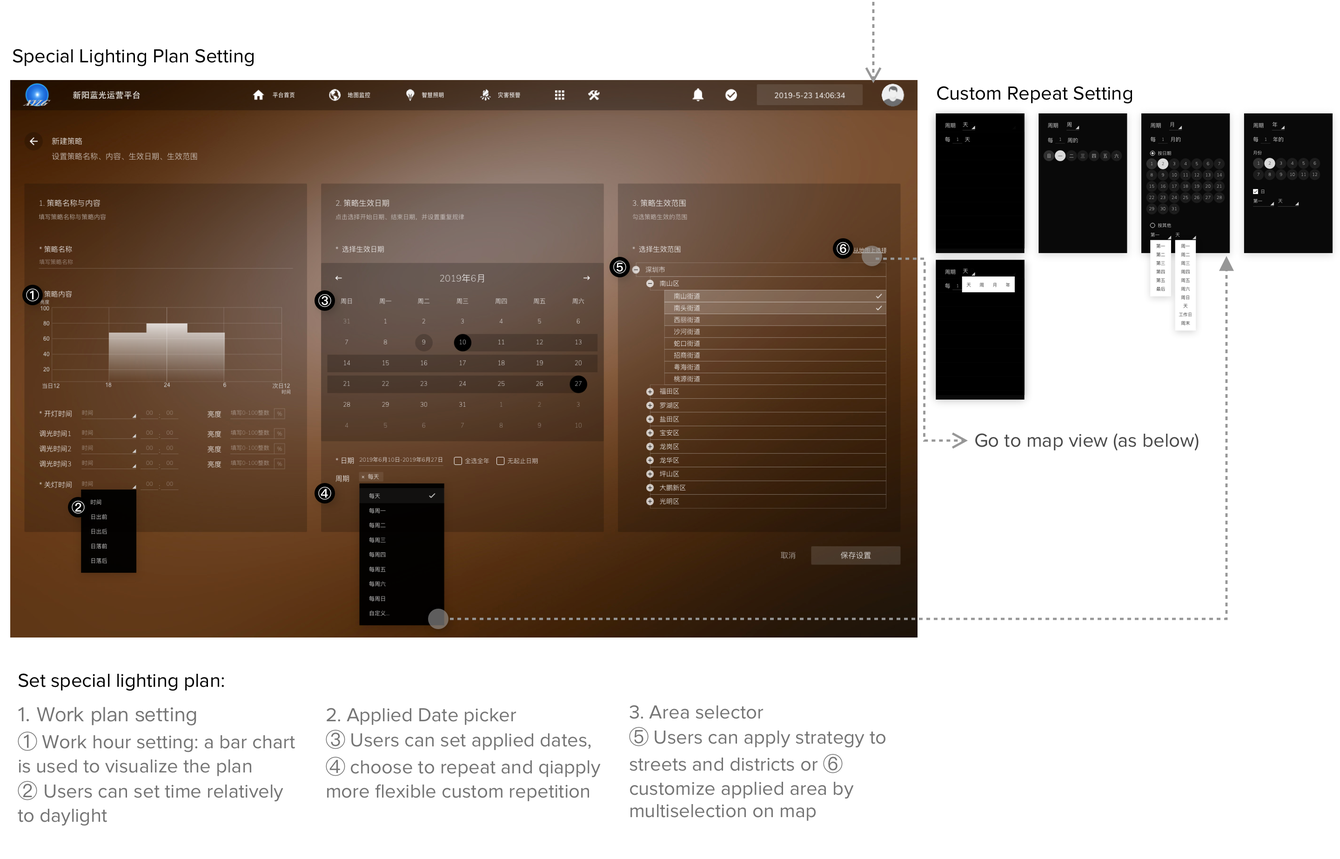
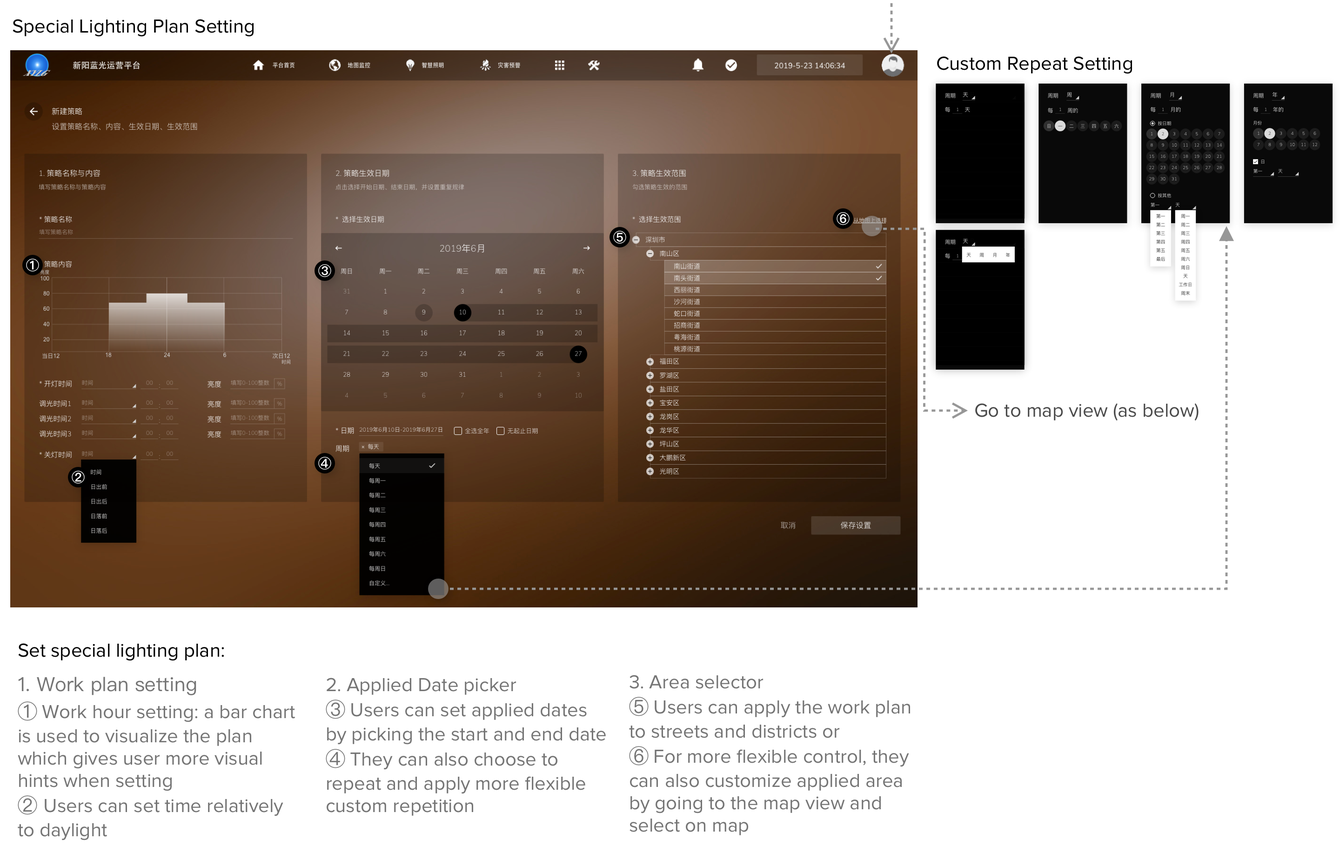
update

diff --git a/src/pages/Designer/IoTBest.js b/src/pages/Designer/IoTBest.js
@@ -154,7 +154,7 @@ class IoTBest extends React.Component {
                     <Col sm={4} md={2}>
 
                         <div className="project_overview_title">My Role</div>
-                        <div className="project_overview_content">Research</div>
+                        <div className="project_overview_content">User Research</div>
                         <div className="project_overview_content">Product Design</div>
                         <div className="project_overview_content">Interaction Design</div>
                         <div className="project_overview_content">Prototyping</div>
@@ -196,7 +196,6 @@ class IoTBest extends React.Component {
                         <div className="project_overview_content py-1"><b>Ideate</b></div>
                         <div className="project_overview_content">Brainstorming</div>
                         <div className="project_overview_content">Sketching</div>
-                        <div className="project_overview_content">Feasibility analysis</div>
                     </Col>
                     <Col xs={4} md={2}>
                         <img src={process.env.PUBLIC_URL + "/images/centerStep.png"} />
@@ -251,8 +250,8 @@ class IoTBest extends React.Component {
                         <section className="project_body" id="intro">
                             <div id="scrollstart"></div>
                             <h2>Problem</h2>
-                            <h5>Lighting infrastructure Administrators were given complex tools to control devices</h5>
-                            <p>Here is the existing management tool for the administrators to control the highway light system. The problems of the tool are obvious:</p>
+                            <h5>Complex tools were used to control street lights</h5>
+                            <p>Here is the existing management tool for the administrators to control the highway lighting system. The problems of the tool are obvious:</p>
                             <ImageZoom
                                 image={{
                                     src: '/images/IoT/existingtool.png',
@@ -280,7 +279,7 @@ class IoTBest extends React.Component {
 
                 <div className="project_separator_inner_wrapper" >
                     <h2>Solution</h2>
-                    <h5>Demos</h5>
+                    <h5>Final Design</h5>
                             <Row>
 
                                 <Col xs={4}>
@@ -359,9 +358,15 @@ class IoTBest extends React.Component {
 
                             <section className="project_body" id="research">
                                 <h2>Research</h2>
-                                <h5>Why and how did administrators control the street lights?</h5>
+                                <h5>Why and how did administrators of lighting infrastructure control the street lights?</h5>
                                 <h6>Research Questions</h6>
-                                <p>To understand the purposes of controlling the street lights and their typical workflows, I advocated strongly conducting user research to my PM. I eventually got the chance to connect with three administrators of the street lighting system and visited their office in person.</p>
+                                <p></p>
+                                <li>How do administrators of city street lighting system work?</li>
+                                <li>What are the purposes for controling the lights?</li>
+                                <li>What problems do they have in the process?</li>
+
+                                <h6>Research Methods</h6>
+                                <p>To understand the purposes of controlling the street lights and an administrator's typical workflows, I conducted contextual inquires with three administrators of the street lighting system. They walked me through their daily work at their office and answered my questions.</p>
                                 <img className="project_illustration_extrasmall" src={process.env.PUBLIC_URL + "/images/IoT/contextual_inquiry.png"} />
                                 <Container>
                                     <Row>
@@ -393,7 +398,7 @@ class IoTBest extends React.Component {
 
                             <section className="project_body" id="syn">
                                 <h2>Synthesize</h2>
-                                <h5>Different scenarios, different workflows, different purposes</h5>
+                                <h5>Different scenarios, different purposes, different workflows, different problems</h5>
                                 <p>From the contextual inquiries, I found that why and how they control the lighting system can be classified into three scenarios that follow different workflows. However, the existing system didn't distinguish these types, let alone supporting their different needs.</p>
                                 <ImageZoom
                                     image={{
@@ -408,7 +413,7 @@ class IoTBest extends React.Component {
                                 <div className="project_quote">
                                     <div className="project_separator_inner_wrapper_small">
 
-                                        <p className="project_quote_text">How might we help administrators configure daily city lighting to achieve energy-saving goals and adjust the lighting on special occasions easily?</p>
+                                        <p className="project_quote_text">How might we help administrators configure daily city lighting to achieve energy-saving goals and adjust the lighting on special occasions or in emergency?</p>
                                     </div>
 
                                 </div>
@@ -418,7 +423,7 @@ class IoTBest extends React.Component {
                             <section className="project_body" id="ideate">
                                 <h2>Ideate</h2>
 
-                                <h5>How might we help administrators to configure city lighting energy-efficiently and adjust lighting for special occasions easily?</h5>
+                                <h5>From problems to solutions</h5>
 
 
                                 <ImageZoom
@@ -441,7 +446,7 @@ class IoTBest extends React.Component {
                             </section>
                             <section className="project_body" id="design">
                                 <h2>Design</h2>
-                                <h5>User flows and Wireframes</h5>
+                                <h5>User flows and wireframes</h5>
 
                                 <p>So I started with mapping the user flows of each scenario and how the new system was going to support each of the steps. I then wireframed the possible interfaces of the system.</p>
                                 <h6>1. Day-to-day plan setup</h6>
@@ -464,12 +469,12 @@ class IoTBest extends React.Component {
                                     }}
 
                                 />
-                                <p>A specific challenge I faced in wireframing the setting interface is how to make the work plan setting interface more intuitive. I wireframed two ways to improve the experience: one is allowing users to click boxes on the bar chart to set luminosity; the other is using simple dropdown and inputs.</p>
+                                <p>A specific challenge I faced in wireframing the setting interface is how to make the work plan setting interface more intuitive and provide users with more visual hints. I wireframed two ways to improve the experience: one is clicking boxes on the bar charts to set time and luminosity; the other using simple dropdown and inputs to select time and enter luminosity.</p>
                                 <ImageZoom
                                     image={{
                                         src: '/images/IoT/workplan.png',
                                         alt: '',
-                                        className: 'project_illustration_medium'
+                                        className: 'project_illustration'
                                     }}
 
 
@@ -486,7 +491,7 @@ class IoTBest extends React.Component {
                                     }}
 
                                 />
-                                <p>Later, when actually wireframing, I realized that the first path, looking for street lights from a map was a lot more complicated than I had thought, especially in the case when users want to control multiple devices. Therefore, I specified the user flow of bulk control:</p>
+                                <p>When actually wireframing, I realized that the first path, looking for street lights from a map was a lot more complicated than I had thought, especially in the case when users want to control multiple devices. Therefore, I specified the user flow of bulk control:</p>
                                 <ImageZoom
                                     image={{
                                         src: '/images/IoT/bulkcontrol/bulkcontrol_userflow.png',
@@ -496,12 +501,12 @@ class IoTBest extends React.Component {
 
                                 />
                                 <div className="project_caption text-center">Specification of the bulk control user flow</div>
-                                <p>Later, I wireframed variations of the interfaces for each step including selecting groups of devices, retrieving and checking selected devices, narrowing down the list for control and getting control feedback.</p>
+                                <p>I later wireframed variations of the interfaces for each step including selecting groups of devices, retrieving and checking selected devices, narrowing down the list for control and getting control feedback.</p>
 
 
                                 {this.state.hide4 ? (<>
                                     <div className="hiden_content_switch_container text-center">
-                                        <button class="uk-button uk-button-secondary uk-width-1-1" onClick={() => this.toggleHiddenContent("hide4")}><span uk-icon="icon: search"></span> Click to See Detailed Exploration </button>
+                                        <button class="uk-button uk-button-secondary uk-width-1-1" onClick={() => this.toggleHiddenContent("hide4")}><span uk-icon="icon: search"></span> Click to See Detailed Exploration of Bulk Control</button>
                                     </div></>) : (<>
                                         <div className="hiden_content_switch_container text-center">
                                             <button class="uk-button uk-button-secondary uk-width-1-1" onClick={() => this.toggleHiddenContent("hide4")}>Hide Detailed Exploration</button>
@@ -509,43 +514,67 @@ class IoTBest extends React.Component {
                                         {/* ----------------hidden 👇---------------------- */}
 
 
-
+                                        <h6>*Bulk control</h6>
                                         <li className="p-list">Select Devices</li>
-                                        <p className="project_info">I ideated four ways to select multiple devices. Since administrators usually control lights by defined areas (administrative divisions), the 'selet-a-area' buttons will be useful for them. Moreover, multi-selection on map is the ideal way to select devices by undefined areas such as a intersection. So I decided to combine these two and used the tree diagram on special light plan set up where administrators want to apply a light plan to large and multiple areas.</p>
+                                        <p className="project_info">I ideated four ways to select multiple devices.</p>
                                         <ImageZoom
                                             image={{
-                                                src: '/images/IoT/bulkcontrol/select.png',
+                                                src: '/images/IoT/bulkcontrol/select1.png',
+                                                alt: '',
+                                                className: 'project_illustration'
+                                            }}
+
+                                        /><ImageZoom
+                                        image={{
+                                            src: '/images/IoT/bulkcontrol/select2.png',
+                                            alt: '',
+                                            className: 'project_illustration'
+                                        }}
+
+                                    />
+                                        <p className="project_info">Since administrators usually control lights by defined areas (administrative divisions), the 'selet-an-area' button is more useful for them. Moreover, multi-selection on map is the ideal way to select devices by undefined areas such as all lights at an intersection. So I decided to combine these two and use the tree diagram on special plan setup where administrators want to apply a light plan to large and multiple areas.</p>
+
+
+
+                                        <li className="p-list">Retrieve Selected Device</li>
+                                        <p className="project_info">One thing that needed to be considered was where the "selected device" button should be located. I wireframed four locations of the button and finally decided to put the button at top since it was the most straightforward version and produced no ambiguity of its scope.</p>
+                                        <ImageZoom
+                                            image={{
+                                                src: '/images/IoT/bulkcontrol/retrieve_button1.png',
                                                 alt: '',
                                                 className: 'project_illustration'
                                             }}
 
                                         />
-
-
-
-                                        <li className="p-list">Retrieve Selected Device</li>
-                                        <p className="project_info">The questions of specifying the information retrieval process existed in where the "selected device" button should locate and where and how to display the selected device.</p>
-                                        <p className="project_info">I wireframed four locations of the button. I finally decided on the last option since it was the most straightforward version and produced no ambiguity of its scope.</p>
                                         <ImageZoom
                                             image={{
-                                                src: '/images/IoT/bulkcontrol/retrieve_button.png',
+                                                src: '/images/IoT/bulkcontrol/retrieve_button2.png',
                                                 alt: '',
                                                 className: 'project_illustration'
                                             }}
 
                                         />
                                         <li className="p-list">Check Selected Device</li>
-                                        <p className="project_info">As for how to display selected devices, I created the following wireframes. We eventually decided to send users to a new page once user click 'view selected device' button on top to give more space for information display so that users can clearly check what are selected. In addition, a grouped table was proved to be the most efficient and clear way to display the selected devices.</p>
+                                        <p className="project_info">As for how to display selected devices, I created the following wireframes.</p>
                                         <ImageZoom
                                             image={{
-                                                src: '/images/IoT/bulkcontrol/retrieve_display.png',
+                                                src: '/images/IoT/bulkcontrol/retrieve_display1.png',
                                                 alt: '',
                                                 className: 'project_illustration'
                                             }}
 
                                         />
+                                        <ImageZoom
+                                            image={{
+                                                src: '/images/IoT/bulkcontrol/retrieve_display2.png',
+                                                alt: '',
+                                                className: 'project_illustration'
+                                            }}
+
+                                        />
+                                        <p className="project_info">I eventually decided to send users to a new page once user click 'view selected device' button on top to give more space for information display so that users can clearly check what are selected. In addition, a grouped table was proved to be the most efficient and clear way to display the selected devices.</p>
                                         <li className="p-list">Apply Advanced Filters</li>
-                                        <p>For selecting street lights on map view, administrators can narrow down the scope by the area and road filters on map. However, they also want to specify types, luminance or other attributes of the lights. To support this, I included advanced filters in the selected device page. The problem is how to display various options and, at the same time, make sure that administrators know what are selected.</p>
+                                        <p>For selecting street lights on map view, administrators can narrow down the scope by the area and street filters on map. However, they still need to narrowed them down by specifying types, luminance or other attributes of the lights. To support this, I included advanced filters in the selected device page. The problem is how to display various options and, at the same time, make sure that administrators know what are selected.</p>
                                         <ImageZoom
                                             image={{
                                                 src: '/images/IoT/bulkcontrol/advancedFilters.png',
@@ -557,7 +586,7 @@ class IoTBest extends React.Component {
                                         <p>The final version was coming from several iterations on how to show options and display applied filters.</p>
 
                                         <li className="p-list">Control Response</li>
-                                        <p className="project_info">The administrators should be careful about adjusting city infrastructure settings. They need to know whether they have changed the setting successfully. Thus, I ideated are two ways of feedback.</p>
+                                        <p className="project_info">The administrators should be careful about adjusting city infrastructure settings. They need to know whether they have changed the setting successfully or not. Thus, I ideated two ways of feedback.</p>
 
                                         <ImageZoom
                                             image={{
@@ -576,9 +605,9 @@ class IoTBest extends React.Component {
                                             }}
 
                                         />
-                                        <li className="project_info">Firstly, an alert will pop up once they apply a new setting asking for confirmation.</li >
+                                        <li className="project_info">Firstly, an alert will pop up once once a control was applied, asking for confirmation.</li >
                                         <li className="project_info">After confirmation, a alert will show up indicating the process and the action button will gray out. </li>
-                                        <li className="project_info">After applying the setting, a clear alert will show the number of successful settings with indicators of error and success on the selected device list to support trouble shooting. The button will then changes into 'redo' that allow users to rerun the action again.</li>
+                                        <li className="project_info">After applying the setting, a clear alert will show the number of successful settings and the indicators of error and success will show up on the selected device list to support trouble shooting. The button will then changes into 'redo' that allow users to rerun the action again to the devices that returned errors.</li>
 
 
 
@@ -587,7 +616,7 @@ class IoTBest extends React.Component {
                                             <button class="uk-button uk-button-secondary uk-width-1-1" onClick={() => this.toggleHiddenContent("hide4")}>Hide Detailed Exploration</button>
                                         </div>
                                     </>)}
-                                <p>Finally, I developed the wireframes for temporary control after the brainstorming:</p>
+                                <p>Finally, I developed the wireframes for temporary control after the brainstorming and critique:</p>
                                 <ImageZoom
                                     image={{
                                         src: '/images/IoT/temporary.png',
@@ -596,18 +625,20 @@ class IoTBest extends React.Component {
                                     }}
 
                                 />
+                                <p>After all these, I created high-fidelity interactive prototypes for the usability testing with users.</p>
                             </section>
                             <section className="project_body" id="evaluate">
                                 <h2>Evaluate</h2>
                                 <h5>Usability Testing & Iterations</h5>
-                                <p>After creating an interactive prototype, I conducted scenario-based usability testing with the administrators (<a href="https://docs.google.com/document/d/1Wzhgqrxo7YtJaYprwnFdA7flDMVM8VVzVDO9i_Pwb1Y/edit?usp=sharing" className="text_link">link of the usability testing tasks</a>). The studies meant to test:</p>
-                                <li>whether the new features are learnable</li>
+                                <p>After creating an interactive prototype, I conducted scenario-based usability testing with 2 administrators and cognitive walkthrough with 3 colleagues (<a href="https://docs.google.com/document/d/1Wzhgqrxo7YtJaYprwnFdA7flDMVM8VVzVDO9i_Pwb1Y/edit?usp=sharing" className="text_link">link of the usability testing tasks</a>). The study meant to test:</p>
+                                <li>whether the new categories of lighting settings are learnable</li>
                                 <li>whether the new interactions improve the efficiency of controls in different scenarios</li>
                                 <li>whether users feel comfortable and confident when using the new tool</li>
 
-                                <p>As it turned out, administrators really liked the new design, especially the temporary control features. There were some problems I discovered with the special plan settings which I later iterated on:</p>
+                                <p>As it turned out, all participants in both studies completed 80% of the tasks and were satisfied with the time they spent on each task. The administrators both explicitly said that the new tool were a lot more easier to use compared with the old one.</p>
+                                <p>There were two main problems I discovered with the special plan settings which I later iterated on:</p>
 
-                                <p>1. The visual hint was not strong enough to help users distinguish the day-to-day plan from special plans so I enhanced the difference by separating them into two sections. Also, the visualizations and briefs of the special plans on the table needed to be improved to help users distinguish different plans when scanning through.</p>
+                                <p>1. The visual hint was not strong enough to help users distinguish the day-to-day plan from the special plans, which was the main learning point in the new design. Therefore, I enhanced the difference by separating them into two sections. Also, the visualizations and briefs of the special plans on the table needed to be improved to help users distinguish different plans when scanning through.</p>
                                 <ImageZoom
                                     image={{
                                         src: '/images/IoT/iterate_lighting_plan_dashboard.png',
@@ -617,7 +648,7 @@ class IoTBest extends React.Component {
 
                                 />
 
-                                <p>2. Administrators would like to first set the time to turn on the lights (first day afternoon) and then the time to turn them off (next morning), so I changed the order of the inputs. Also, setting by clicking the graph actually took a longer time and more clicks. Therefore, I got rid of this feature and used the bar chart only for work-plan settings.</p>
+                                <p>2. Administrators would like to first set the time to turn on the lights (first day afternoon) and then the time to turn them off (next morning), so I changed the order of the inputs. Also, setting by clicking the graph actually took a longer time and more clicks. Therefore, I got rid of this feature and used the bar chart only for displaying work-plan settings.</p>
                                 <ImageZoom
                                     image={{
                                         src: '/images/IoT/iterate_lighting_plan_setting.png',
@@ -633,9 +664,13 @@ class IoTBest extends React.Component {
                                 <h2>Final Design</h2>
                                 <h5>How I solved the problems</h5>
                                 <p>Here is the final design and how it addressed each problem I discovered in the user research</p>
-                                <h6>Day-to-day Plan and Special Plan Setup</h6>
+                                
+                 
+                                
+                                <h6>Day-to-day Plan & Special Plan Setup</h6>
                                 <p></p>
                                 <li>IoT supported configuration of day-to-day plan</li>
+                                <li>Build trust with users by giving them the on-off of automation</li>
                                 <li>Set special plans in advance that override the daily plan in a defined period</li>
                                 <li>Flexible work hour setting relative to daylight and custom repeated cycle</li>
                                 <ImageZoom
@@ -682,8 +717,8 @@ class IoTBest extends React.Component {
                             </section>
                             <section className="project_body" id="impact">
                                 <h2>Impact</h2>
-                                <h5>User Feedback</h5>
-                                <p>The new system was shipped in late September 2019 as part of the alpha product and more testing was conducted. With the new lighting control interfaces, administrators found the lighting plan configuration and device control process much shorter and easier. They also liked the flexibility of controling devices in group.</p>
+                                <h5>User and Client Feedback</h5>
+                                <p>In the usability studies, all participants (2 administrators 3 colleagues) all completed 80% of the tasks and were satisfied with the time they spent on each task. In post-testing interviews, the administrators found the lighting plan configuration and device control process much shorter and easier compared with the old system. They also liked the flexibility of controling devices in group.</p>
                                 <div className="project_quote">
                                     <div className="project_separator_inner_wrapper_small">
 
@@ -692,6 +727,8 @@ class IoTBest extends React.Component {
                                     </div>
 
                                 </div>
+                                <p>After the demo pitch, our client decided to continue working with us to further improve the products and bring it to the next stage. The new lighting control features were shipped in late September 2019 as part of the alpha product and more testings were to be conducted.</p>
+                           
                                
                             </section>
 
